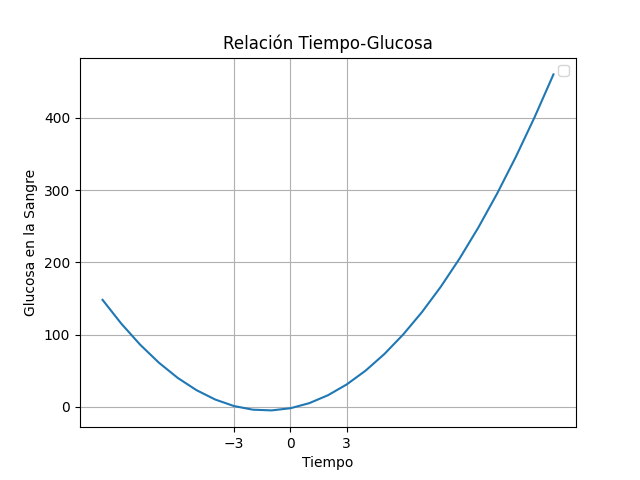
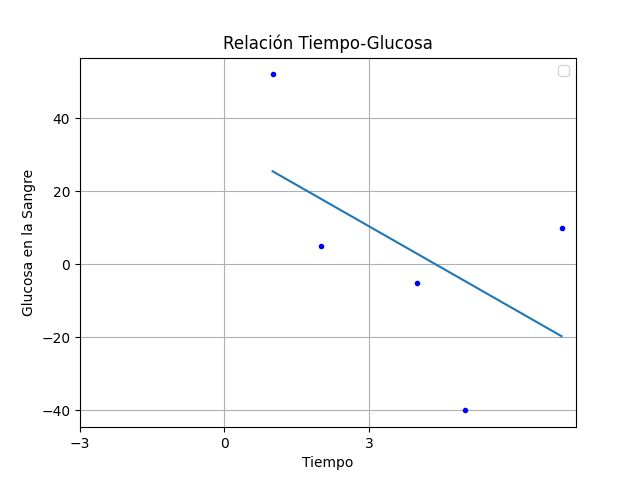
tendencias y graficas

diff --git a/Pruebas/app copy/templates/graficas.html b/Pruebas/app copy/templates/graficas.html
@@ -5,10 +5,8 @@
     <div class="w3-container" id="Graficas" style="margin-top:75px">
         <h1 class="w3-xxxlarge w3-text-red"><strong>Gráficas</strong></h1>
         <hr style="width:50px;border:5px solid red" class="w3-round">
-        <p>Comparación Glucosa-Tiempo</p>
-        <p>aqui grafica :)</p>
     </div>
-    <br><br><br><br><br><br><br><br><br>
+
   
     <h3 class="text-center">Escoge el tipo de grafica que se desee: </h3>
     <form method="POST" action="" class="justify-content-center">
@@ -21,4 +19,6 @@
         </div>
         <button type="submit" class="btn btn-primary btn-lg">Mandar</button>
       </form>
+      <p>Comparación Glucosa-Tiempo</p>
+      <img src="/static/grafica.png" style="width:100%" onclick="onClick(this)" alt="graficaRegLin">
 {% endblock %} 

diff --git a/Pruebas/app copy/templates/tendencia.html b/Pruebas/app copy/templates/tendencia.html
@@ -8,12 +8,12 @@
     <h1 class="w3-xxxlarge w3-text-red"><strong>Tendencia</strong></h1>
     <hr style="width:50px;border:5px solid red" class="w3-round">
     <p>Modelo de Regresión Lineal.</p>
-    <p>aqui va la grafica :)</p>
+    <img src="/static/grafica.png" style="width:100%" onclick="onClick(this)" alt="graficaRegLin">
     <center>
       <br><br>
       <div class="card">
         <div class="container">
-          <h2><strong>{aqui va el coeficiente}</strong></h2> 
+          <h2><strong>{{r2}}</strong></h2> 
           <p>*coeficiente de determinación r²</p> 
         </div>
       </div>

diff --git a/Pruebas/app copy/RegLin.py b/Pruebas/app copy/RegLin.py
@@ -1,0 +1,63 @@
+import math
+import numpy as np
+import sympy as sym
+import matplotlib.pyplot as plt
+import pathlib
+#matplotlib es para grafica, numpy vectoriza python
+
+def reglin(x,y):
+    n=len(x)
+
+    if len(y)!= n:
+        print("DEBE DE HABER LA MISMA CANTIDAD DE VALORES EN AMBOS VECTORES")
+    
+    sx=sum(x) #suma de todo el vector x
+    sy=sum(y) #suma de todo el vector y
+    #sumatorias cuadraticas
+    sx2=0
+    sxy=0
+    sy2=0
+    for i in range(n):
+        sx2+=(x[i]*x[i])
+    
+    for i in range(n):
+        sxy+=(x[i]*y[i])
+
+    for i in range(n):
+        sy2+=(y[i]*y[i])
+
+    pendiente=((n*sxy-sx*sy)/(n*sx2-sx**2))
+    intercepto = sy/n-pendiente*sx/n
+
+    r2=((n*sxy-sx*sy)/math.sqrt(n*sx2-sx**2)/math.sqrt(n*sy2-sy**2))**2 #coeficiente
+
+    return pendiente,intercepto,r2
+
+
+def graf(x,y,xp,yp):
+    #necesario para exportar grafica
+    fig=plt.figure()
+
+    #graficador + etiquetas
+    plt.plot(x,y,'b.',xp,yp)
+    plt.xlabel('Tiempo')
+    plt.ylabel('Glucosa en la Sangre') #se pone r para formato "raw" y los $ encierran el texto para armarlo mas legible
+
+    plt.title('Relación Tiempo-Glucosa')
+    plt.legend(loc=1)
+    plt.grid(True)
+
+    plt.xticks(np.linspace(-3,3,3)) #(punto inicial, punto final, cantidad de separaciones entre a y b)
+    #si se quiere separar pero en y se escribe: plt.yticks
+
+    #exportador de grafica
+    ruta = str(pathlib.Path(__file__).parent.resolve()) # Obtiene la ruta del directorio 
+    ruta = ruta.replace(chr(92),'/')+'/static/grafica.png' # Ruta final con el nombre del archivo
+    fig.savefig(ruta)
+
+
+def grafreglin(x,y,a):
+    xp=np.linspace(min(x),max(x),2)
+    yp=a[0]*xp+a[1]
+
+    return yp,xp

diff --git a/Pruebas/app copy/Graf.py b/Pruebas/app copy/Graf.py
@@ -4,12 +4,12 @@ import pathlib
 import sympy as sym
 #matplotlib es para grafica, numpy vectoriza python
 
-def graf(f,x):
+def graf(x,y,xp,yp):
     #necesario para exportar grafica
     fig=plt.figure()
 
     #graficador + etiquetas
-    plt.plot(x, [f1(i) for i in x])
+    plt.plot(x,y,'b.',xp,yp)
     plt.xlabel('Tiempo')
     plt.ylabel('Glucosa en la Sangre') #se pone r para formato "raw" y los $ encierran el texto para armarlo mas legible
 
@@ -26,7 +26,3 @@ def graf(f,x):
     ruta = ruta.replace(chr(92),'/')+'/static/grafica.png' # Ruta final con el nombre del archivo
     fig.savefig(ruta)
 
-x = range(-10, 15)
-def f1(x):
-    return 2*(x**2) + 5*x - 2
-graf(f1,x)

diff --git a/Pruebas/app copy/app.py b/Pruebas/app copy/app.py
@@ -6,6 +6,7 @@ from datos import Datos
 from NewInter import Newton
 import numpy as np
 import sympy as sym
+from RegLin import reglin, grafreglin
 
 # Convertimos un string con formato <día>/<mes>/<año> en datetime
 
@@ -101,7 +102,11 @@ def met():
 
 @app.route("/tendencia", methods=["GET", "POST"])
 def ten():
-    return render_template("tendencia.html")
+    global horaMuestra
+    global glucoMuestra
+    (a,b,r2)=reglin(horaMuestra,glucoMuestra)
+    grafreglin(horaMuestra,glucoMuestra,(a,b,r2))
+    return render_template("tendencia.html",r2=r2)
 
 @app.route("/resumen", methods=["GET", "POST"])
 def res():

diff --git a/Pruebas/math/RegLin.py b/Pruebas/math/RegLin.py
@@ -1,5 +1,6 @@
 import math
 import numpy as np
+from Graf import graf
 
 def RegLin(x,y):
     n=len(x)
@@ -35,6 +36,8 @@ def GrafRegLin(x,y,ejemplo):
 
     return xp,yp
 
+x=range(-10,15)
+graf(yp,x)
 
 
 
